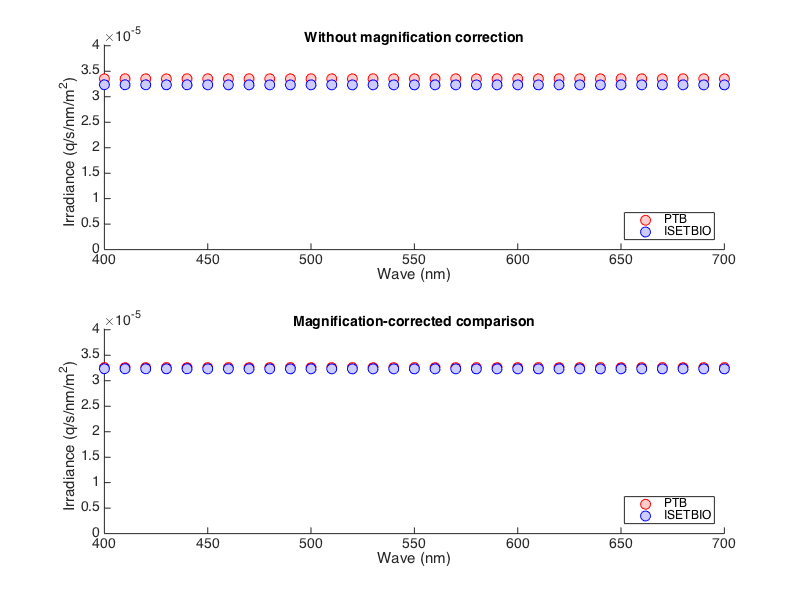
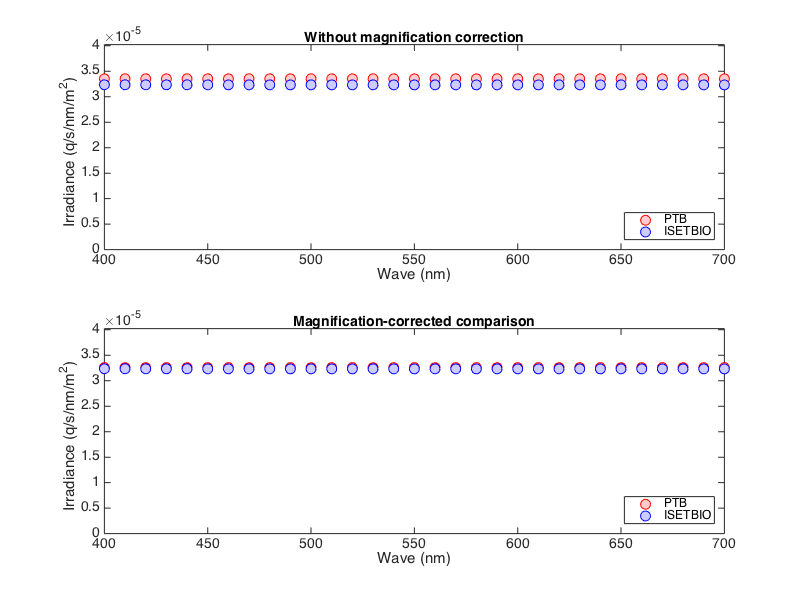
Validation results docs update

diff --git a/validationdocs/PTB_vs_ISETBIO/PTB_vs_ISETBIO_Irradiance_HTML/PTB_vs_ISETBIO_Irradiance.html b/validationdocs/PTB_vs_ISETBIO/PTB_vs_ISETBIO_Irradiance_HTML/PTB_vs_ISETBIO_Irradiance.html
@@ -144,19 +144,18 @@ table td { padding:7px 5px; text-align:left; vertical-align:top; border:1px soli
         hold <span class="string">on</span>;
         plot(wave, irradianceEnergy, <span class="string">'bo'</span>, <span class="string">'MarkerFaceColor'</span>, [0.8 0.8 1.0], <span class="string">'MarkerSize'</span>, 10);
         hold <span class="string">off</span>
-        box <span class="string">off</span>
         set(gca,<span class="string">'ylim'</span>,[0 1.2*max([max(ptbIrradiance(:)) max(irradianceEnergy(:))])]);
-        set(gca, <span class="string">'FontName'</span>, <span class="string">'Helvetica'</span>, <span class="string">'FontSize'</span>, 14, <span class="string">'Color'</span>, <span class="string">'w'</span>);
+        set(gca, <span class="string">'FontName'</span>, <span class="string">'Helvetica'</span>, <span class="string">'FontSize'</span>, 14);
         legend({<span class="string">'PTB'</span>,<span class="string">'ISETBIO'</span>}, <span class="string">'Location'</span>,<span class="string">'SouthEast'</span>,<span class="string">'FontSize'</span>,12);
         xlabel(<span class="string">'Wave (nm)'</span>); ylabel(<span class="string">'Irradiance (q/s/nm/m^2)'</span>)
         title(<span class="string">'Without magnification correction'</span>, <span class="string">'FontName'</span>, <span class="string">'Helvetica'</span>, <span class="string">'FontSize'</span>, 14, <span class="string">'FontWeight'</span>, <span class="string">'bold'</span>);
+
 
         subplot(2,1,2);
         plot(wave,ptbMagCorrectIrradiance,<span class="string">'ro'</span>, <span class="string">'MarkerFaceColor'</span>, [1.0 0.8 0.8], <span class="string">'MarkerSize'</span>, 10);
         hold <span class="string">on</span>;
         plot(wave,irradianceEnergy,<span class="string">'bo'</span>, <span class="string">'MarkerFaceColor'</span>, [0.8 0.8 1.0], <span class="string">'MarkerSize'</span>, 10);
         hold <span class="string">off</span>
-        box <span class="string">off</span>;
         set(gca,<span class="string">'ylim'</span>,[0 1.2*max([max(ptbIrradiance(:)) max(irradianceEnergy(:))])]);
         set(gca, <span class="string">'FontName'</span>, <span class="string">'Helvetica'</span>, <span class="string">'FontSize'</span>, 14);
         xlabel(<span class="string">'Wave (nm)'</span>); ylabel(<span class="string">'Irradiance (q/s/nm/m^2)'</span>)
@@ -198,7 +197,7 @@ table td { padding:7px 5px; text-align:left; vertical-align:top; border:1px soli
 	 validation report      : Validation PASSED. PTB and isetbio agree about irradiance to 1.00000 %
 	 validation data saved  : 'fov', 'roiSize', 'tolerance', 'scene', 'oi'
 	-------------------------------------------------------------------------------------------------
-	 date last run          : 18-Sep-2014 17:40:48
+	 date last run          : 18-Sep-2014 17:47:25
 	 matlabVersion          : 8.3.0.532 (R2014a)
 	 computer architecture  : MACI64
 	 git branch...tracking  : dev...origin/dev of ISETBIO
@@ -327,19 +326,18 @@ function validationResults = PTB_vs_ISETBIO_Irradiance(runParams)
         hold on;
         plot(wave, irradianceEnergy, 'bo', 'MarkerFaceColor', [0.8 0.8 1.0], 'MarkerSize', 10);
         hold off
-        box off
         set(gca,'ylim',[0 1.2*max([max(ptbIrradiance(:)) max(irradianceEnergy(:))])]);
-        set(gca, 'FontName', 'Helvetica', 'FontSize', 14, 'Color', 'w');
+        set(gca, 'FontName', 'Helvetica', 'FontSize', 14);
         legend({'PTB','ISETBIO'}, 'Location','SouthEast','FontSize',12);
         xlabel('Wave (nm)'); ylabel('Irradiance (q/s/nm/m^2)')
         title('Without magnification correction', 'FontName', 'Helvetica', 'FontSize', 14, 'FontWeight', 'bold');
     
+        
         subplot(2,1,2);
         plot(wave,ptbMagCorrectIrradiance,'ro', 'MarkerFaceColor', [1.0 0.8 0.8], 'MarkerSize', 10);
         hold on;
         plot(wave,irradianceEnergy,'bo', 'MarkerFaceColor', [0.8 0.8 1.0], 'MarkerSize', 10);
         hold off
-        box off;
         set(gca,'ylim',[0 1.2*max([max(ptbIrradiance(:)) max(irradianceEnergy(:))])]);
         set(gca, 'FontName', 'Helvetica', 'FontSize', 14);
         xlabel('Wave (nm)'); ylabel('Irradiance (q/s/nm/m^2)')
